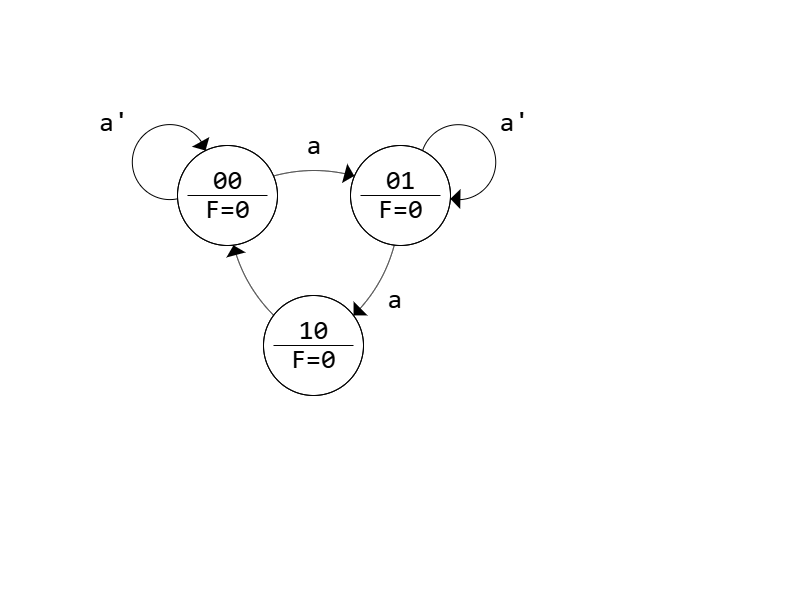
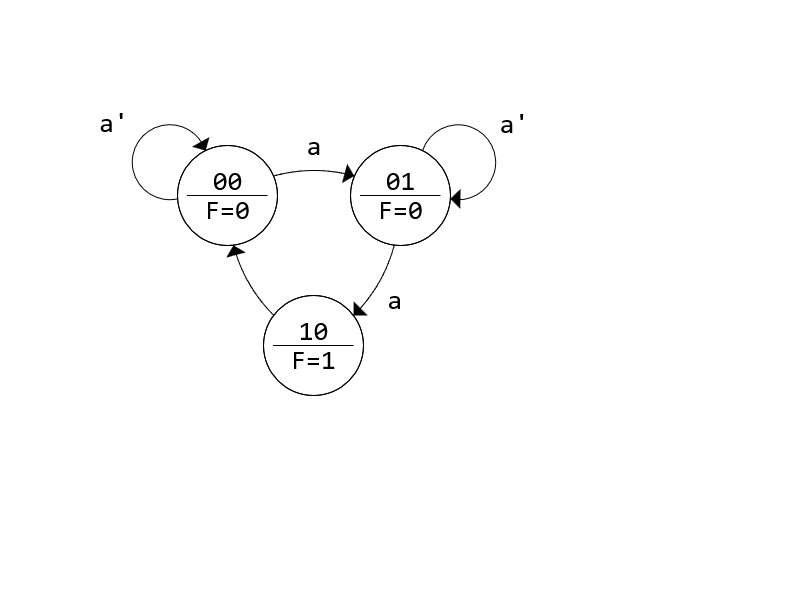
Getting There
Slowly but surely

diff --git a/18_Finite_State_Machines_1/fsm_data.py b/18_Finite_State_Machines_1/fsm_data.py
@@ -30,13 +30,13 @@ class FSMData():
                     text = node["outputText"]
             # replace everything but alphanumeric and underscore with space
             text = re.sub("[^0-9a-zA-Z_]+", " " , text)
-            output_words = text.replace("=", ",").split(",") #["F", "1", "G", "0"]
+            output_words = text.split(" ") #["F", "1", "G", "0"]
 
             for output in self.output_names:
                 # If an output exists under the state name, copy it to the outputs dict
                 if output in output_words:
-                    output_value = output_words.index(output) + 1
-                    current_state_data["outputs"][output] = output_value
+                    output_value = output_words[output_words.index(output) + 1]
+                    current_state_data["outputs"][output] = str(output_value)
                 # Otherwise assume it's 0
                 else:
                     current_state_data["outputs"][output] = "0"
@@ -112,13 +112,19 @@ class FSMData():
 
     def make_output_columns(self):
 
-        # First make all possible combinations of state with input
+        output_columns = {}
+
+        # Initialize output columns
+        for output in self.next_state_bit_names + self.output_names:
+            output_columns[output] = ""
+
+        # make all possible combinations of state with input
         # (sorta like TT rows but without the outputs)
         all_combos = itertools.product(self.state_bit_combos, self.input_combos)
 
-        next_state_columns = {}
-        
+        num_state_bits = len(self.state_bit_combos[0])
 
+        # Then drill the logic
         for combo in all_combos:
             state_combo = combo[0]
             input_combo = combo[1]
@@ -129,11 +135,99 @@ class FSMData():
             # If the state combo is used, figure out the appropriate next state
             if state_datum:
                 state_datum = state_datum[0]
+                current_state = state_datum["state"]
+
+                # Process the arc to get the next state
                 arcs = state_datum["arcs"]
                 for arc in arcs:
                     expression = arc["expression"]
-                    if logic_eval(self.input_names, input_combo):
+                    # If the expression on the arc evaluates to true (or it's empty)
+                    # Copy the arc's next state into the truth table
+                    if not expression or logic_eval(self.input_names, input_combo, expression):
+                        for i, column in zip(range(num_state_bits), self.next_state_bit_names):
+                            # 7 LEVELS OF INDENTATION I AM THE BEST PROGRAMMER TO WALK THIS EARTH RAAAAAAAHHHH
+                            output_columns[column] += arc["next_state"][i]
+                    # Otherwise copy the current state into the truth tablex
+                    # else:
+                    #     for i, column in zip(range(num_state_bits), self.next_state_bit_names):
+                    #         output_columns[column] += current_state[i]
+                
+                # Process the current state to get the Moore output
+                for output in self.output_names:
+                    if state_datum["outputs"][output] == "1":
+                        output_columns[output] += "1"
+                    else:
+                        output_columns[output] += "0"
+            
+            # If the state combo is unused:
+            else:
+                # Don't care next state / output
+                for column in self.next_state_bit_names + self.output_names:
+                    output_columns[column] += "x"
+                
+        self.output_columns = output_columns        
+        return output_columns
+    
 
+    def evaluate_all_combos(self):
+
+        rows = []
+
+        # Initialize output columns
+
+        # make all possible combinations of state with input
+        # (sorta like TT rows but without the outputs)
+        all_combos = itertools.product(self.state_bit_combos, self.input_combos)
+
+        # Then drill the logic
+        for combo in all_combos:
+
+            state_combo = combo[0]
+            input_combo = combo[1]
+
+            row = {}
+            row["state"] = state_combo
+            for i in range(len(combo[1])):
+                row[self.input_names[i]] = input_combo[i]
+            # A list, so we can check for improperly specified FSMs
+            row["next_states"] = []
+
+            # Get the dictionary with the appropriate state
+            state_datum = [d for d in self.state_data if d["state"] == state_combo]
+
+            # If the state combo is used, figure out the appropriate next state
+            if state_datum:
+                state_datum = state_datum[0]
+
+                # Process the arc to get the next state
+                arcs = state_datum["arcs"]
+                for arc in arcs:
+                    expression = arc["expression"]
+                    # If the expression on the arc evaluates to true (or it's empty)
+                    # Copy the arc's next state into the truth table
+                    if not expression or logic_eval(self.input_names, input_combo, expression):
+                        row["next_states"].append(arc["next_state"])
+                
+                # Process the current state to get the Moore output
+                for output in self.output_names:
+                    if state_datum["outputs"][output] == "1":
+                        row[output] = "1"
+                    else:
+                        row[output] = "0"
+
+                row["used"] = True
+            
+            # If the state combo is unused:
+            else:
+                # Don't care next state / output
+                row["next_states"].append("x" * len(state_combo))
+                for output in self.output_names:
+                    row[output] = "x"
+                row["used"] = False
+
+            rows.append(row)
+                
+        return rows
 
                 
 

diff --git a/18_Finite_State_Machines_1/logic_eval.py b/18_Finite_State_Machines_1/logic_eval.py
@@ -31,6 +31,7 @@ def to_bitwise(inputs, expression):
 
     # If ' appears after (), move it before the appropriate group
     # ex: (a+(b)')' -> '(a+'(b))
+    
     # expression = re.sub(r"(\(.*\))'", r"'\1", expression) # for outer 
     # expression = re.sub(r"(\([^(]*?\))'", r"'\1", expression) # for inner
     for i in range(1, len(expression)):

diff --git a/18_Finite_State_Machines_1/fsm_class_test.py b/18_Finite_State_Machines_1/fsm_class_test.py
@@ -8,3 +8,8 @@ print(f"outputs: {fsm.output_names}")
 print(f"state data: {fsm.state_data}")
 print(f"state bits: {fsm.state_bit_names}, next_state_bits = {fsm.next_state_bit_names}")
 
+output_columns = fsm.make_output_columns()
+print(f"output columns: {output_columns}")
+
+rows = fsm.evaluate_all_combos()
+print(f"rows: {rows}")
